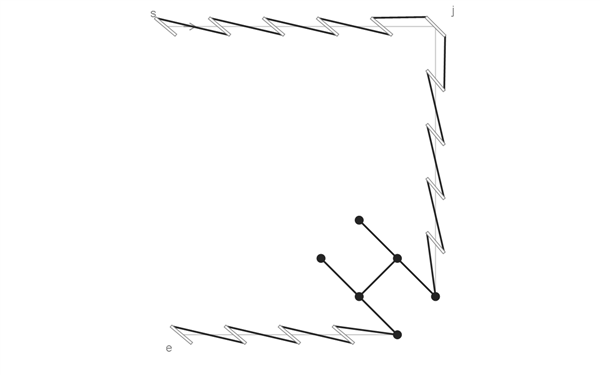
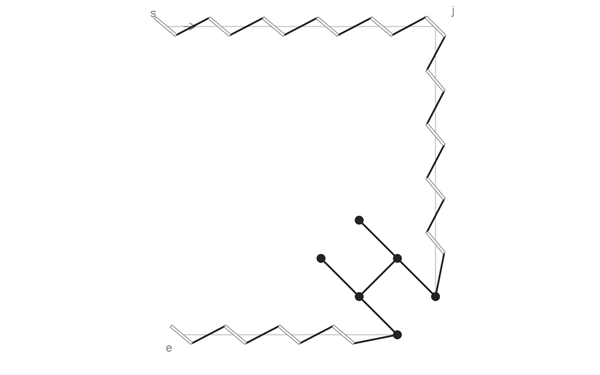
Correct back-face thread tip connections in Sellier figures

diff --git a/examples/counter_examples/README.md b/examples/counter_examples/README.md
@@ -25,7 +25,7 @@ Outputs: `examples/counter_examples/assets/`. Temporary frames: `output/counter_
 ## Geometry
 
 - Common profile: $p=3\,\mathrm{mm}$, slit length $1.5\,\mathrm{mm}$, round-hole diameter $0.5\,\mathrm{mm}$.
-- Reference corner: three nominal intervals per arm; ordinary slit axes $-40^\circ$ and $-50^\circ$ in Cartesian coordinates; shared directed axis $135^\circ$. Its undirected axis is the diagonal seen in the annotated photograph. Thread connections are reconstructed separately from the hole axes.
+- Reference corner: three nominal intervals per arm; ordinary slit axes $-40^\circ$ and $-50^\circ$ in Cartesian coordinates; shared axis $-45^\circ$. Its axis is the diagonal seen in the annotated photograph. Connect each slit's positive tip to the next slit's negative tip; the shown face is already encoded in the slit axes.
 - Autostitch wallet: signed local lean $-40^\circ$. The incoming minus-tip and outgoing plus-tip locate the shared hole. The top endpoint and H anchors are placed by integer nominal steps from the virtual centres; the bottom row uses integer steps from the left H anchor.
 - Diagonal wallet: reuse the reference corner's slit axes and thread connections. Keep the H, right-row centres and bottom-row centres fixed. Place the corner slit at the outgoing virtual centre and set the top guide from nominal steps; this slightly raises the top guide while retaining nominal gaps throughout.
 - H: two legs, three circular openings per leg, width $3\,\mathrm{mm}$, height $6\,\mathrm{mm}$, rotated $45^\circ$. Connectivity is drawn explicitly; it is not a sewing itinerary.

diff --git a/docs/counter_examples/HERMES_SELLIER_skeleton.md b/docs/counter_examples/HERMES_SELLIER_skeleton.md
@@ -8,6 +8,7 @@
 - Ordinary stitches repeat along each arm; the final incoming stitch and first outgoing stitch change angle
 - One real slit at the vertex joins both arms; its axis bisects the right angle
 - The thread uses different tips as it turns through that slit
+- With the illustrated slit angles, the adjoining thread angles change only slightly
 - The two affected stitches are drawn heavier
 
 ![Shared diagonal slit and its two adjoining stitches](../../examples/counter_examples/assets/sellier-diagonal-corner.gif)
